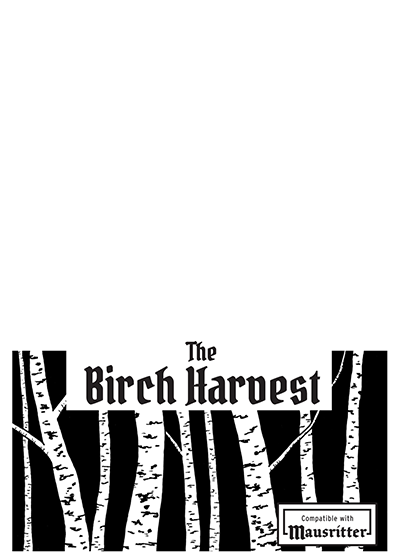
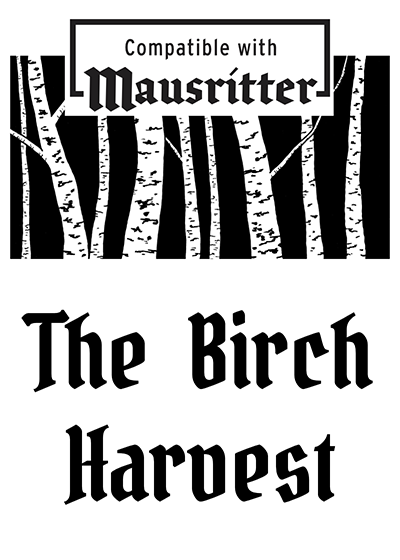
Update images, fix typo

diff --git a/src/components/homePage/resources/thirdPartyResourcesData.js b/src/components/homePage/resources/thirdPartyResourcesData.js
@@ -16,7 +16,7 @@ const resources = [
         releaseDate: '2022-08-19',
     },
     {
-        name: 'Maus Menangerie',
+        name: 'Maus Menagerie',
         author: 'Colin Chapman',
         link: require('./files/Mausritter_-_Maus_Menagerie_A4.pdf'),
         image: require('./images/adventure-maus-menangerie.png'),
